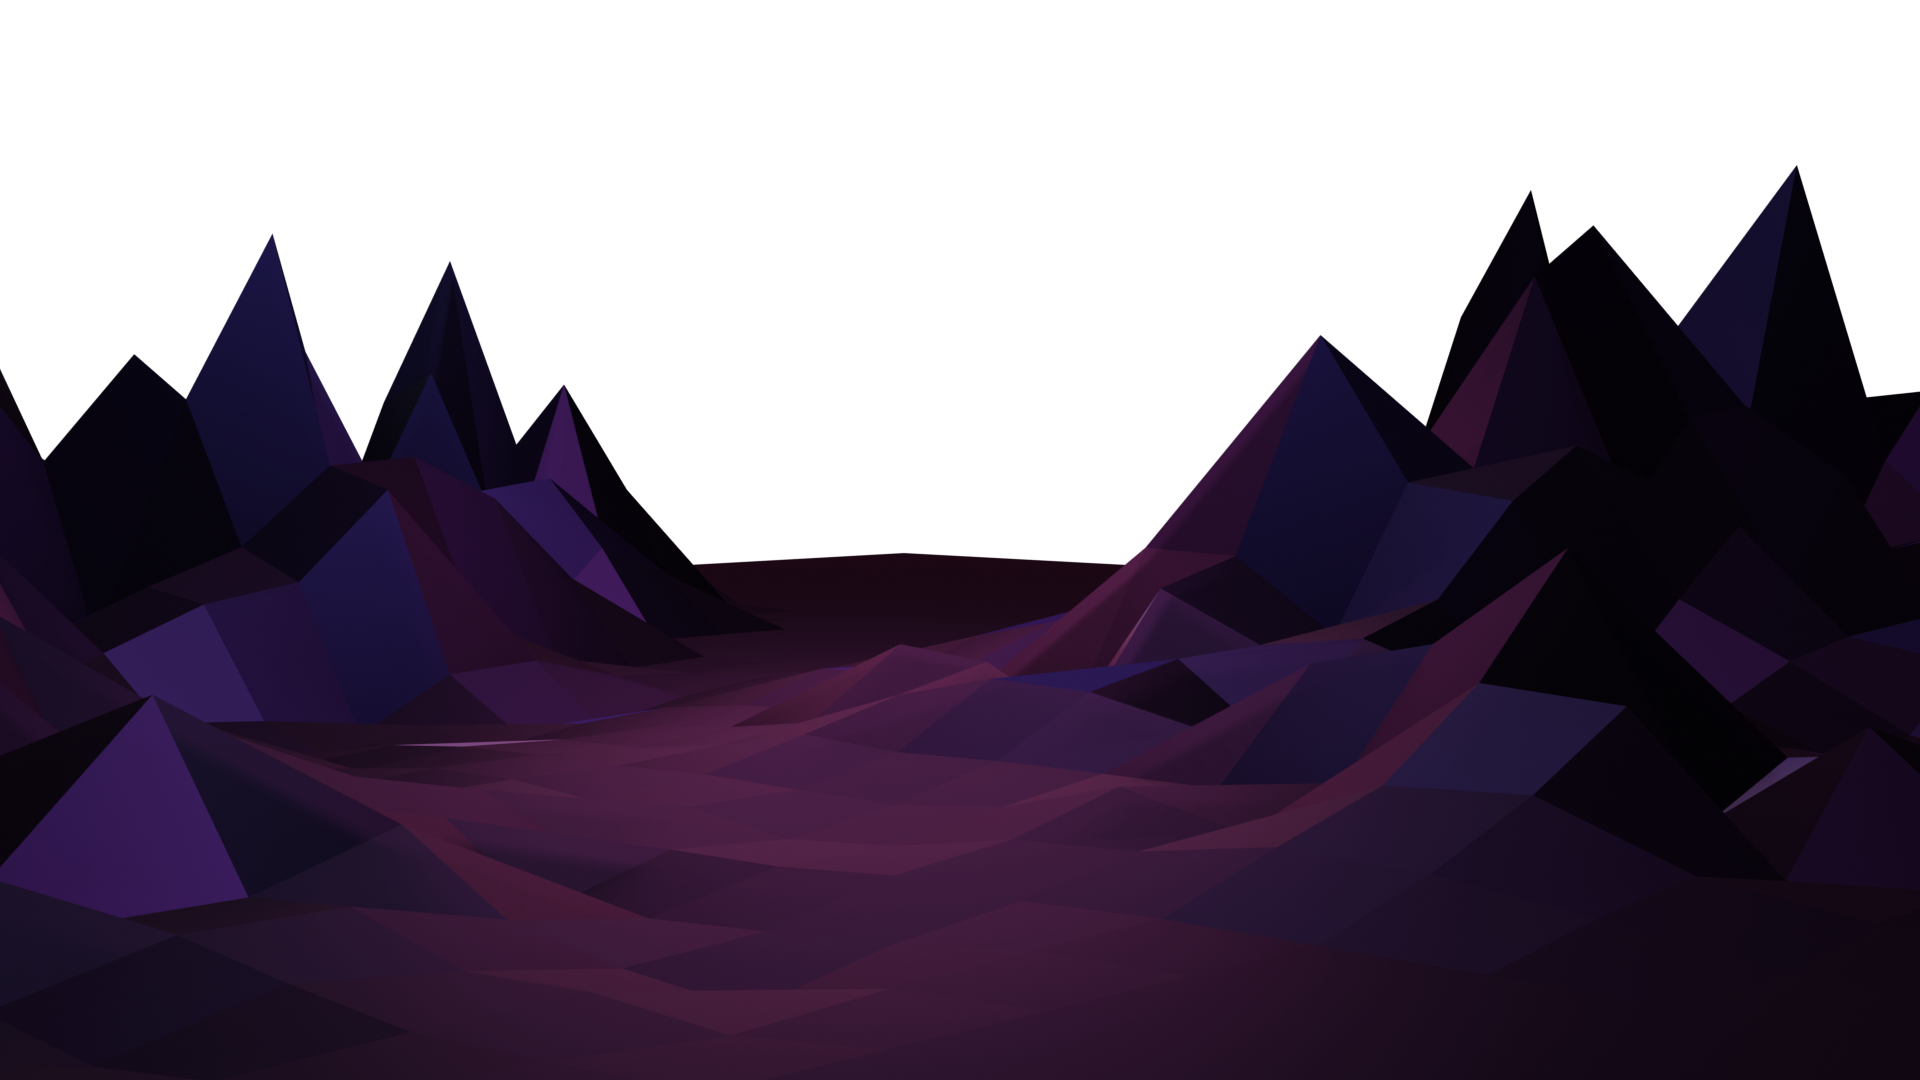
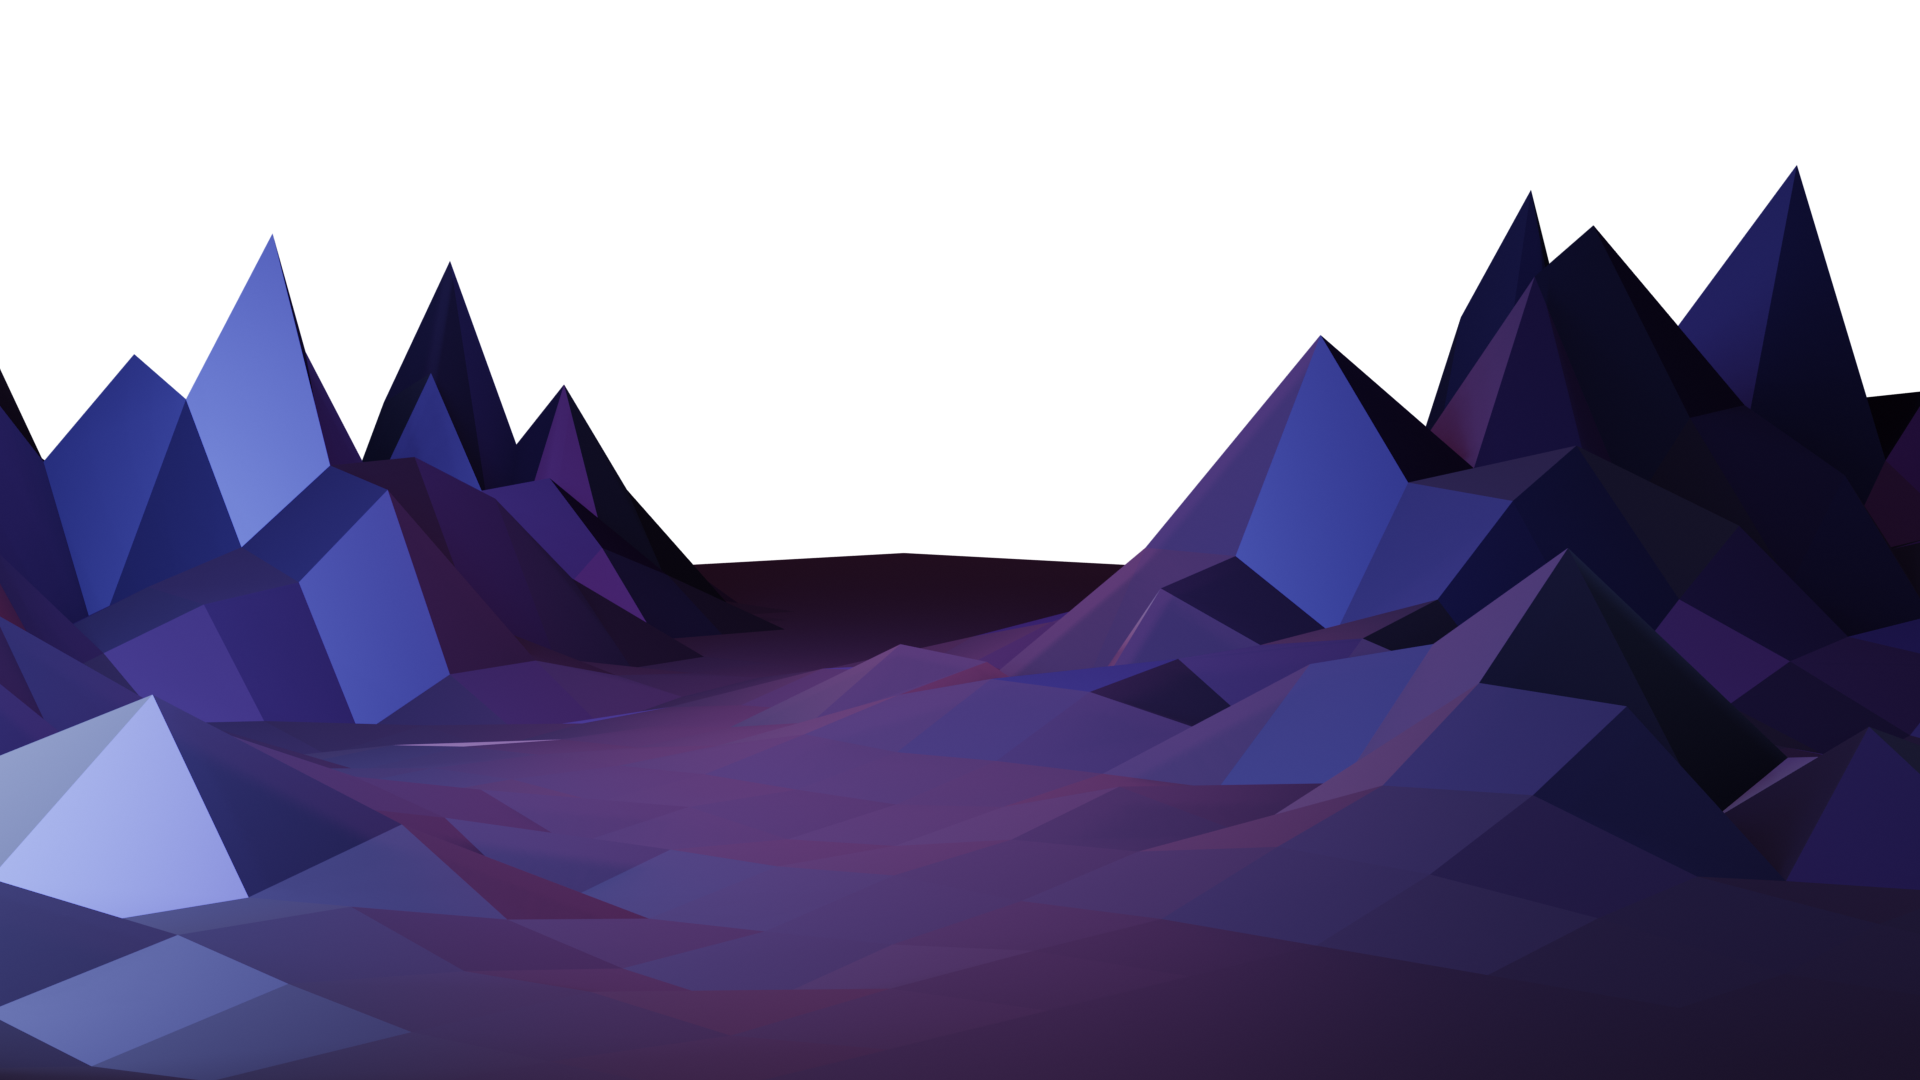
New background 3d

diff --git a/src/components/page-header.tsx b/src/components/page-header.tsx
@@ -41,7 +41,7 @@ const PageHeader: React.FC<Props> = ({ tech, title }) => {
         style={{ position: "absolute", top: 0, width: "100%", zIndex: -2, y }}
       />
       <motion.img
-        src={"/bg_front.png"}
+        src={"/bg_front2.png"}
         style={{
           position: "absolute",
           top: 0,
